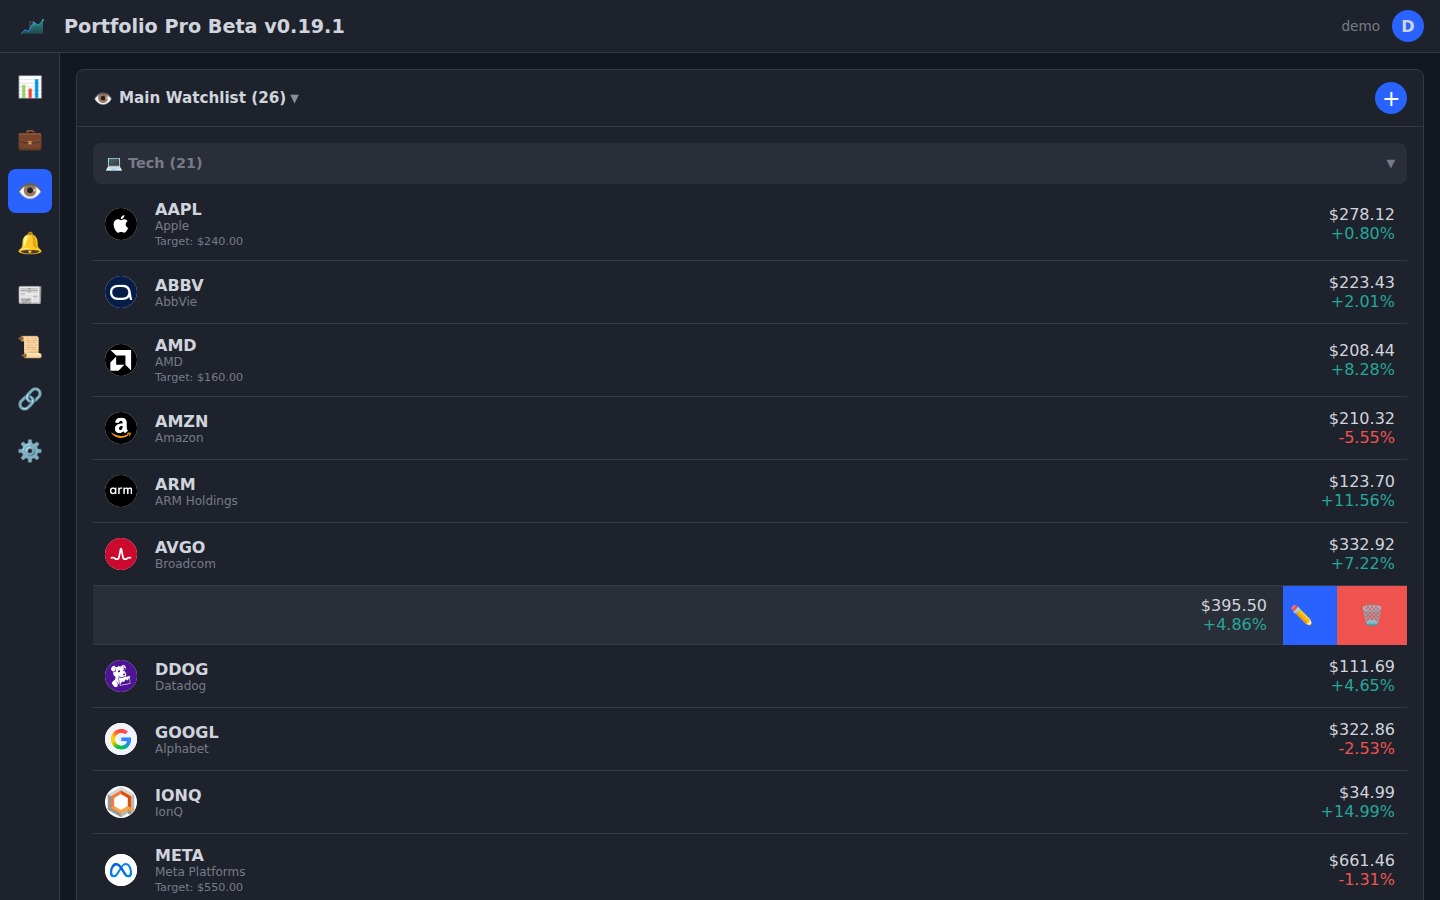
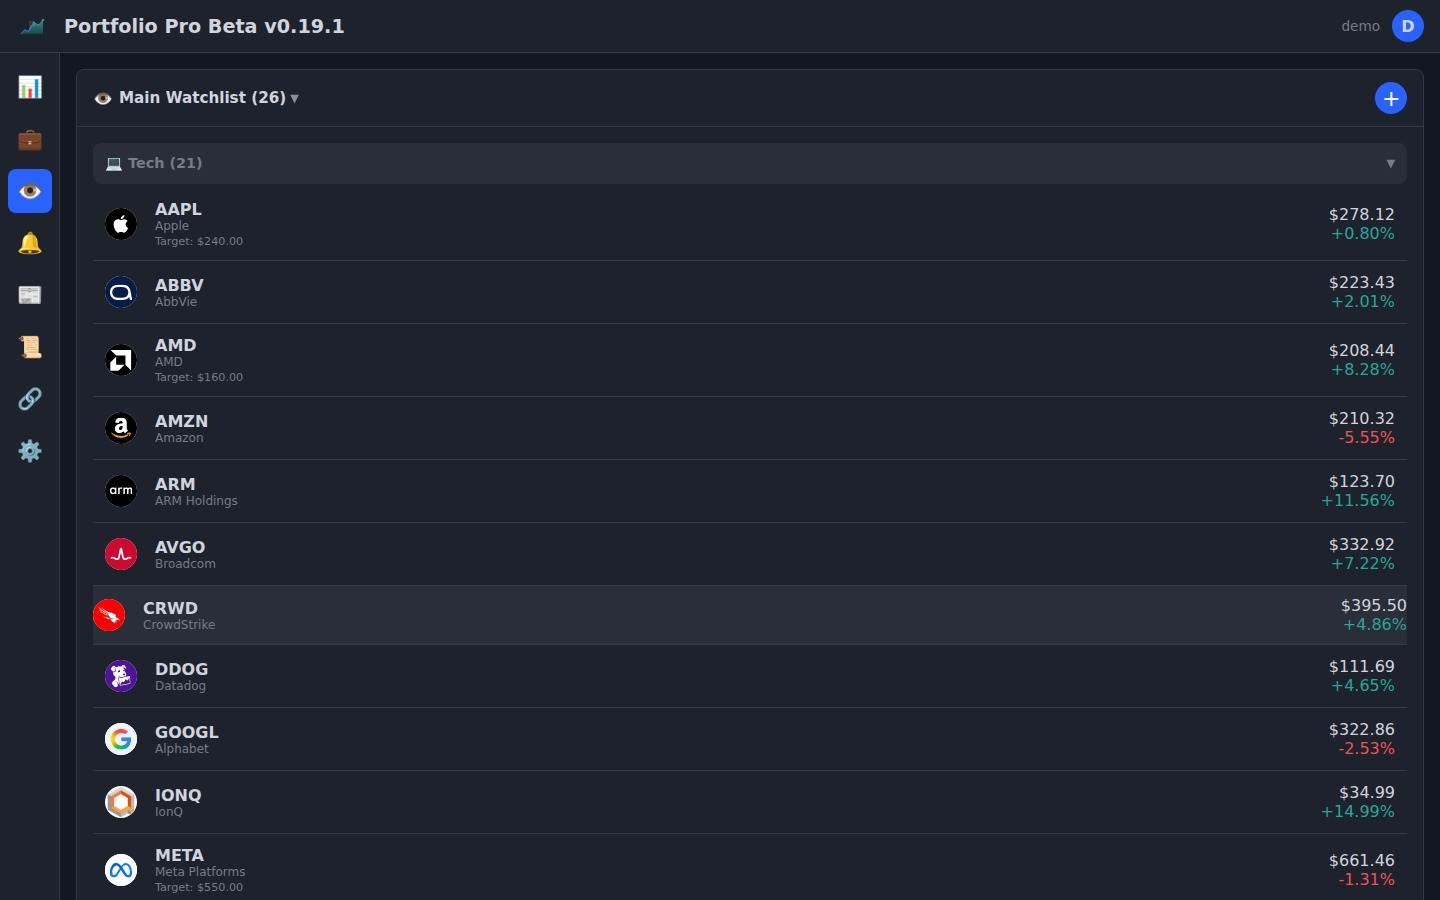
fix: options chain crash — missing priceCache and CACHE_TTL in market routes

Changed region(s): [[0.8438, 0.6222, 1.0, 0.7156], [0.0625, 0.6533, 0.1562, 0.7156]]

diff --git a/server/take-screenshots.js b/server/take-screenshots.js
@@ -2,122 +2,124 @@ const { chromium } = require('playwright');
 const path = require('path');
 
 const BASE = 'http://localhost:8081';
-const SCREENSHOT_DIR = path.join(__dirname, '..', 'screenshots');
-const LOGIN = { login: 'demo', password: 'DemoPass123!' };
+const DIR = path.join(__dirname, '..', 'screenshots');
 
 async function shot(page, name) {
-  await page.screenshot({ path: path.join(SCREENSHOT_DIR, `${name}.jpg`), type: 'jpeg', quality: 92, fullPage: false });
+  await page.screenshot({ path: path.join(DIR, `${name}.jpg`), type: 'jpeg', quality: 92 });
   console.log(`✅ ${name}`);
 }
 
-async function clickNav(page, index) {
-  await page.evaluate(() => {
-    document.querySelectorAll('.modal-overlay.show').forEach(m => m.classList.remove('show'));
-    document.querySelectorAll('.modal-overlay[style*="display: flex"]').forEach(m => m.style.display = 'none');
-  });
-  await page.waitForTimeout(200);
-  await page.evaluate((i) => {
-    const items = document.querySelectorAll('nav .nav-item');
-    if (items[i]) items[i].click();
-  }, index);
-  await page.waitForTimeout(2500);
+function closeModals() {
+  return `document.querySelectorAll('.modal-overlay').forEach(m => { m.classList.remove('show'); m.style.removeProperty('display'); });`;
 }
 
 async function main() {
   const browser = await chromium.launch({ headless: true });
-  const ctx = await browser.newContext({
-    viewport: { width: 1440, height: 900 },
-    colorScheme: 'dark',
-  });
-  const page = await ctx.newPage();
-
+  const page = await (await browser.newContext({ viewport: { width: 1440, height: 900 }, colorScheme: 'dark' })).newPage();
+  
   // Login
   await page.goto(BASE);
   await page.waitForTimeout(1500);
-  await page.fill('#loginForm input[name="login"]', LOGIN.login);
-  await page.fill('#loginForm input[name="password"]', LOGIN.password);
+  await page.fill('#loginForm input[name="login"]', 'demo');
+  await page.fill('#loginForm input[name="password"]', 'DemoPass123!');
   await page.click('#loginForm button[type="submit"]');
-  await page.waitForTimeout(5000); // Extra time for prices to load
+  await page.waitForTimeout(6000);
 
   // 1. Dashboard
   await shot(page, 'dashboard');
 
   // 2. Positions
-  await clickNav(page, 0);
+  await page.evaluate(() => showPage('portfolio'));
+  await page.waitForTimeout(3000);
   await shot(page, 'positions');
 
-  // 3. Add position modal
-  await page.evaluate(() => { if (typeof showAddPositionModal === 'function') showAddPositionModal(); });
-  await page.waitForTimeout(800);
+  // 3. Add Position modal
+  await page.evaluate(() => showAddPositionModal());
+  await page.waitForTimeout(1000);
   await shot(page, 'add-position');
-  await page.evaluate(() => { document.querySelectorAll('.modal-overlay').forEach(m => { m.classList.remove('show'); m.style.display = 'none'; }); });
-  await page.waitForTimeout(300);
+  await page.evaluate(closeModals());
+  await page.waitForTimeout(500);
 
   // 4. Watchlist
-  await clickNav(page, 1);
+  await page.evaluate(() => showPage('watchlist'));
+  await page.waitForTimeout(3000);
   await shot(page, 'watchlist');
 
-  // 5. Add to watchlist
-  await page.evaluate(() => { if (typeof showAddWatchlistModal === 'function') showAddWatchlistModal(); });
-  await page.waitForTimeout(800);
+  // 5. Add Watchlist modal
+  await page.evaluate(() => showAddWatchlistModal());
+  await page.waitForTimeout(1000);
   await shot(page, 'add-watchlist');
-  await page.evaluate(() => { document.querySelectorAll('.modal-overlay').forEach(m => { m.classList.remove('show'); m.style.display = 'none'; }); });
-  await page.waitForTimeout(300);
+  await page.evaluate(closeModals());
+  await page.waitForTimeout(500);
 
-  // 6. Chart detail — navigate into it, wait for chart to render
-  await page.evaluate(() => { if (typeof selectTicker === 'function') selectTicker('NVDA'); });
-  await page.waitForTimeout(5000); // Extra time for chart + prices
+  // 6. Chart Detail - open it and DON'T close before screenshot
+  await page.evaluate(() => openChartDetail('NVDA'));
+  await page.waitForTimeout(6000);
   await shot(page, 'chart-detail');
+  // NOW close it
+  await page.evaluate(closeModals());
+  await page.waitForTimeout(500);
 
-  // 7. Options chain
-  await page.evaluate(() => { if (typeof loadOptionsChain === 'function') loadOptionsChain('NVDA'); });
-  await page.waitForTimeout(4000);
-  await shot(page, 'options-chain');
-
-  // Close chart detail
+  // 7. Options Chain - toggle it open inside chart detail
+  await page.evaluate(() => openChartDetail('AAPL'));
+  await page.waitForTimeout(3000);
+  await page.evaluate(() => toggleOptionsChain());
+  await page.waitForTimeout(5000);
+  // Scroll down to show options chain
   await page.evaluate(() => {
-    document.querySelectorAll('.modal-overlay').forEach(m => { m.classList.remove('show'); m.style.display = 'none'; });
-    if (typeof showPage === 'function') showPage('watchlist');
+    const section = document.getElementById('optionsChainSection');
+    if (section) section.scrollIntoView({ behavior: 'instant' });
   });
+  await page.waitForTimeout(500);
+  await shot(page, 'options-chain');
+  await page.evaluate(closeModals());
   await page.waitForTimeout(500);
 
   // 8. Alerts
-  await clickNav(page, 2);
+  await page.evaluate(() => showPage('alerts'));
+  await page.waitForTimeout(2500);
   await shot(page, 'alerts');
 
   // 9. Transactions
-  await clickNav(page, 3);
+  await page.evaluate(() => showPage('history'));
+  await page.waitForTimeout(2500);
   await shot(page, 'transactions');
 
   // 10. News
-  await clickNav(page, 4);
-  await page.waitForTimeout(3500);
+  await page.evaluate(() => showPage('news'));
+  await page.waitForTimeout(4000);
   await shot(page, 'news');
 
-  // 11. Wallets — make sure we're on the wallets page, not a popup
-  await clickNav(page, 5);
-  await page.evaluate(() => {
-    // Close any transaction modals
-    document.querySelectorAll('.modal-overlay').forEach(m => { m.classList.remove('show'); m.style.display = 'none'; });
-  });
-  await page.waitForTimeout(1000);
+  // 11. Wallets
+  await page.evaluate(() => showPage('wallets'));
+  await page.waitForTimeout(3000);
   await shot(page, 'wallets');
 
-  // 12. Wallet tokens expanded
-  await page.evaluate(() => {
-    const btn = document.querySelector('button[onclick*="toggleWalletTokens"]');
-    if (btn) btn.click();
+  // 12. Wallet Tokens - go to wallets page, wait for load, expand tokens
+  await page.evaluate(() => showPage('wallets'));
+  await page.waitForTimeout(2000);
+  // Reload wallets to make sure data is fresh
+  await page.evaluate(async () => {
+    if (typeof loadWallets === 'function') await loadWallets();
   });
-  await page.waitForTimeout(500);
+  await page.waitForTimeout(3000);
+  // Try to find and click token toggle
+  const hasTokenBtn = await page.evaluate(() => {
+    const btn = document.querySelector('button[onclick*="toggleWalletTokens"]');
+    if (btn) { btn.click(); return true; }
+    return false;
+  });
+  console.log('Token toggle found:', hasTokenBtn);
+  await page.waitForTimeout(1000);
   await shot(page, 'wallet-tokens');
 
   // 13. Settings
-  await clickNav(page, 6);
-  await page.waitForTimeout(1000);
+  await page.evaluate(() => showPage('settings'));
+  await page.waitForTimeout(1500);
   await shot(page, 'settings');
 
   await browser.close();
-  console.log('\n🎉 All screenshots done!');
+  console.log('\n🎉 All done!');
 }
 
 main().catch(e => { console.error(e); process.exit(1); });

diff --git a/public/index.html b/public/index.html
@@ -940,10 +940,7 @@
                 pointer-events: auto;
             }
             .swipe-container:hover .swipe-content {
-                transform: translateX(-140px);
-            }
-            .swipe-container:has(.swipe-actions > .swipe-action:only-child):hover .swipe-content {
-                transform: translateX(-70px);
+                transform: none;
             }
         }
 

diff --git a/server/routes/market.js b/server/routes/market.js
@@ -4,6 +4,10 @@ const { fetchYahooPrice, fetchYahooChart } = require('../utils/yahoo');
 
 const router = express.Router();
 
+// Cache for options chain data
+const priceCache = new Map();
+const CACHE_TTL = 300000; // 5 minutes
+
 // Yahoo crumb for authenticated endpoints (options chain)
 let yahooCrumb = null;
 let yahooCookies = null;
